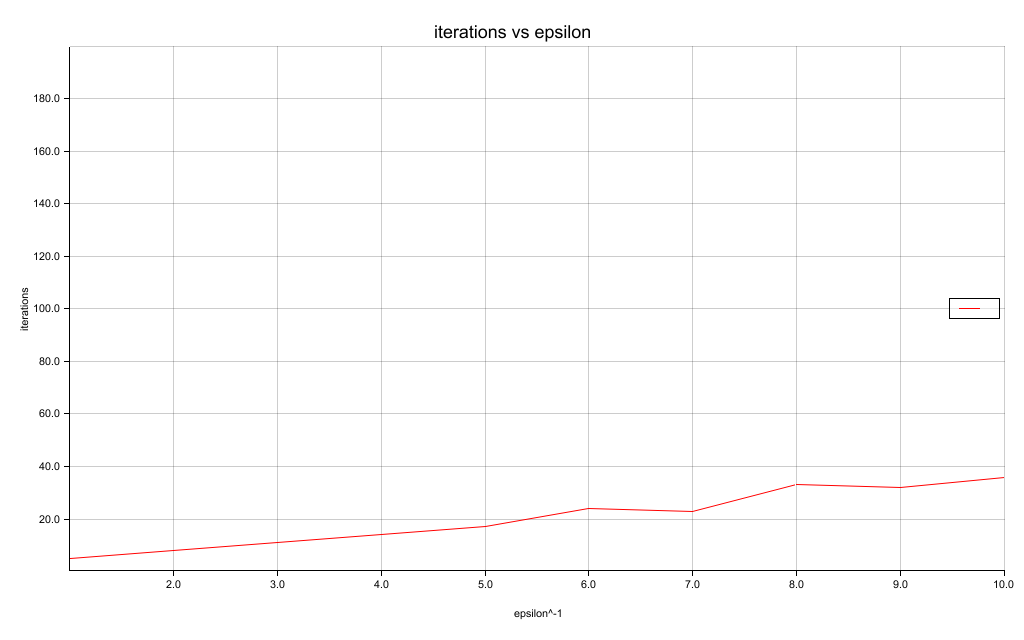
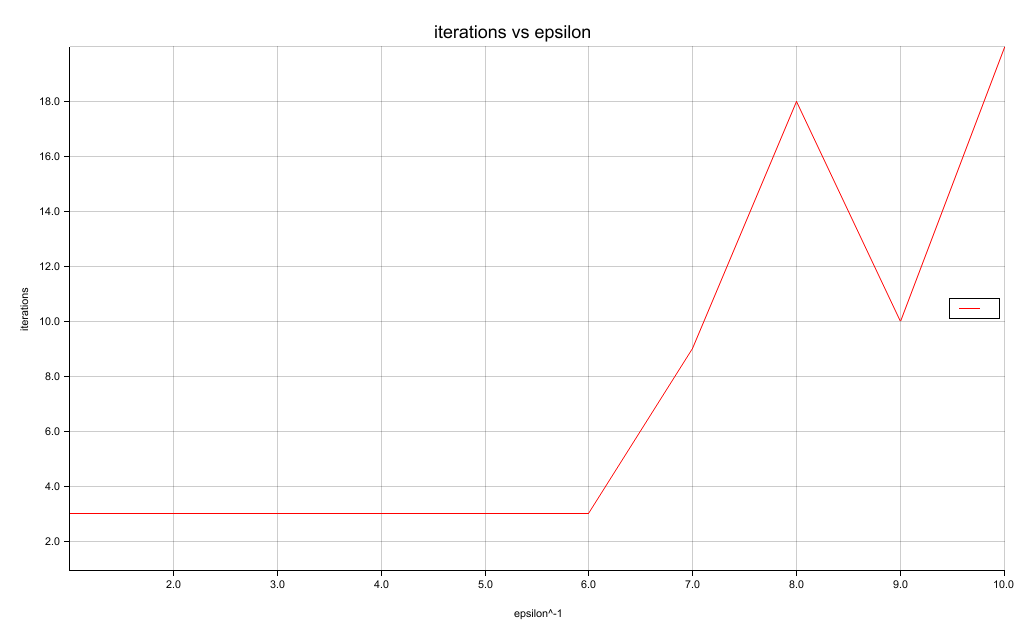
Adjust plot y-label and write values to debug format (tmp)

diff --git a/benches/wedge_product.rs b/benches/wedge_product.rs
@@ -5,10 +5,10 @@ use plotters::style;
 use rand::Rng;
 use std::time::Instant;
 
-fn rand_coeffs_and_basis(n: i32) -> (Vec<i64>, Vec<Vec<u8>>) {
+fn rand_coeffs_and_basis_vec(n: i32) -> (Vec<i64>, Vec<Vec<u8>>) {
     let mut rng = rand::thread_rng();
     let coeffs: Vec<i64> = (0..n).map(|_| rng.gen::<i16>() as i64).collect();
-    let basis: Vec<Vec<u8>> = (1..=n).map(|i| vec![i as u8]).collect(); // TODO
+    let basis: Vec<Vec<u8>> = (1..=n).map(|i| vec![i as u8]).collect();
     (coeffs, basis)
 }
 
@@ -20,15 +20,15 @@ fn bench_bitvec(num_iter: u64) -> Vec<Vec<f64>> {
         let mut times_per_iter = Vec::new();
 
         for n in 1..=max_basis {
-            let (coeffs_1, basis_1) = rand_coeffs_and_basis(n);
+            let (coeffs_1, basis_1) = rand_coeffs_and_basis_vec(n);
             let ext_1 = bitvec::ExTensor::new(&coeffs_1, &basis_1);
 
-            let (coeffs_2, basis_2) = rand_coeffs_and_basis(n);
+            let (coeffs_2, basis_2) = rand_coeffs_and_basis_vec(n);
             let ext_2 = bitvec::ExTensor::new(&coeffs_2, &basis_2);
 
             let now = Instant::now();
             let _ = ext_1 * ext_2;
-            let elapsed = now.elapsed().as_millis() as f64;
+            let elapsed = now.elapsed().as_nanos() as f64;
 
             times_per_iter.push(elapsed);
         }
@@ -41,21 +41,21 @@ fn bench_bitvec(num_iter: u64) -> Vec<Vec<f64>> {
 
 fn bench_hashmap(num_iter: u64) -> Vec<Vec<f64>> {
     let mut times = Vec::new();
-    let max_basis = 60;
+    let max_basis = 31;
 
     for _j in 0..num_iter {
         let mut times_per_iter = Vec::new();
 
         for n in 1..=max_basis {
-            let (coeffs_1, basis_1) = rand_coeffs_and_basis(n);
+            let (coeffs_1, basis_1) = rand_coeffs_and_basis_vec(n);
             let ext_1 = dense_hashmap::ExTensor::new(&coeffs_1, &basis_1);
 
-            let (coeffs_2, basis_2) = rand_coeffs_and_basis(n);
+            let (coeffs_2, basis_2) = rand_coeffs_and_basis_vec(n);
             let ext_2 = dense_hashmap::ExTensor::new(&coeffs_2, &basis_2);
 
             let now = Instant::now();
             let _ = ext_1 * ext_2;
-            let elapsed = now.elapsed().as_millis() as f64;
+            let elapsed = now.elapsed().as_nanos() as f64;
 
             times_per_iter.push(elapsed);
         }
@@ -67,7 +67,7 @@ fn bench_hashmap(num_iter: u64) -> Vec<Vec<f64>> {
 }
 
 fn main() {
-    let num_iter = 50;
+    let num_iter = 300;
 
     let times_bitvec = bench_bitvec(num_iter);
     let times_hashmap = bench_hashmap(num_iter);
@@ -77,10 +77,10 @@ fn main() {
         ("dense_hashmap".to_string(), style::BLUE, times_hashmap),
     ];
     let _ = utils::plot_results(
-        "wedge product comparison",
+        "wedge product comparison (vector)",
         (
-            ("Nummer von Basiselementen", 0f32..60f32),
-            ("Laufzeit (in ms)", 0f32..0.1f32),
+            ("Anzahl von Basiselementen", 0f32..31f32),
+            ("Laufzeit (in ns)", 0f32..1000000f32),
         ),
         0,
         "benches/output/wedge_prod",

diff --git a/src/bin/main.rs b/src/bin/main.rs
@@ -5,25 +5,28 @@ use std::path::Path;
 
 fn main() {
     //let g = Graph::from_tsv("src/data/out.arenas-jazz");
-    let g = Graph::from_tsv("src/data/out.brunson_revolution_revolution");
-    // let g = Graph::from_graph6("src/data/path10.g6");
+    // let g = Graph::from_tsv("src/data/out.brunson_revolution_revolution");
+    let g = Graph::from_graph6("src/data/path10.g6");
     let k = 4;
-    let eps = 0.2;
-
-    // let r = algorithm::c(g, k, eps);
-    // println!("res: {}", r);
-
-    let values = algorithm::c_values_t_test(g, k, eps);
 
     let path = Path::new("debug/debug.txt");
+    let mut values = vec![];
+    for eps in vec![0.2].into_iter() {
+        let value = algorithm::c_values_t_test(g.clone(), k, eps);
+        values.push(value);
+    }
 
     let mut file = match File::create(&path) {
         Err(why) => panic!("could not create file: {}", why),
         Ok(file) => file,
     };
 
-    let values_as_string: Vec<String> = values.iter().map(|v| v.to_string()).collect();
-    match file.write_all(values_as_string.join(", ").as_bytes()) {
+    let mut values_as_string: Vec<String> = vec![];
+    for value in values.iter() {
+        let as_string: Vec<String> = value.iter().map(|v| v.to_string()).collect();
+        values_as_string.push(as_string.join(", "));
+    }
+    match file.write_all(values_as_string.join("\n").as_bytes()) {
         Err(why) => panic!("could not write: {}", why),
         Ok(_) => println!("successfully wrote to debug.txt"),
     }

diff --git a/src/algorithm/mod.rs b/src/algorithm/mod.rs
@@ -51,6 +51,7 @@ pub fn c(g: Graph, k: usize, eps: f64) -> f64 {
         let denom = utils::factorial(k) as f64;
         let x_j = (coeffs.abs() as f64) / denom;
         values.push(x_j);
+        // values.push((values.iter().sum::<f64>() + x_j) / (values.len() + 1) as f64);
 
         mean = utils::mean(&values);
         let std_dev = utils::std_dev(&values);
@@ -158,12 +159,10 @@ pub fn c_values_t_test(g: Graph, k: usize, eps: f64) -> Vec<f64> {
         let t_val = utils::t_value(step - 1);
 
         println!("mean: {}, std_dev: {}, step: {}", mean, std_dev, step);
-        /*
         if (mean - t_val * std_dev / n.sqrt() > (1.0 - eps) * mean) || (std_dev == 0.0 && step > 20)
         {
             return values;
         }
-        */
         step += 1;
     }
 

diff --git a/benches/algorithm.rs b/benches/algorithm.rs
@@ -122,7 +122,7 @@ fn main() {
     let results = vec![("".to_string(), style::RED, iter_eps)];
     let _ = utils::plot_results(
         "iterations vs epsilon",
-        (("epsilon^-1", 1f32..10f32), ("iterations", 1f32..200f32)),
+        (("epsilon^-1", 1f32..10f32), ("iterations", 1f32..20f32)),
         1,
         "benches/output/iterations_eps",
         &results,

diff --git a/benches/utils.rs b/benches/utils.rs
@@ -48,9 +48,9 @@ pub fn plot_results(
 
     let mut run_chart = ChartBuilder::on(&run_root)
         .caption(title, ("sans-serif", 20).into_font())
-        .margin(20)
+        .margin(50)
         .x_label_area_size(50)
-        .y_label_area_size(50)
+        .y_label_area_size(90)
         .build_cartesian_2d(x_range.clone(), y_range.clone())?;
 
     run_chart
